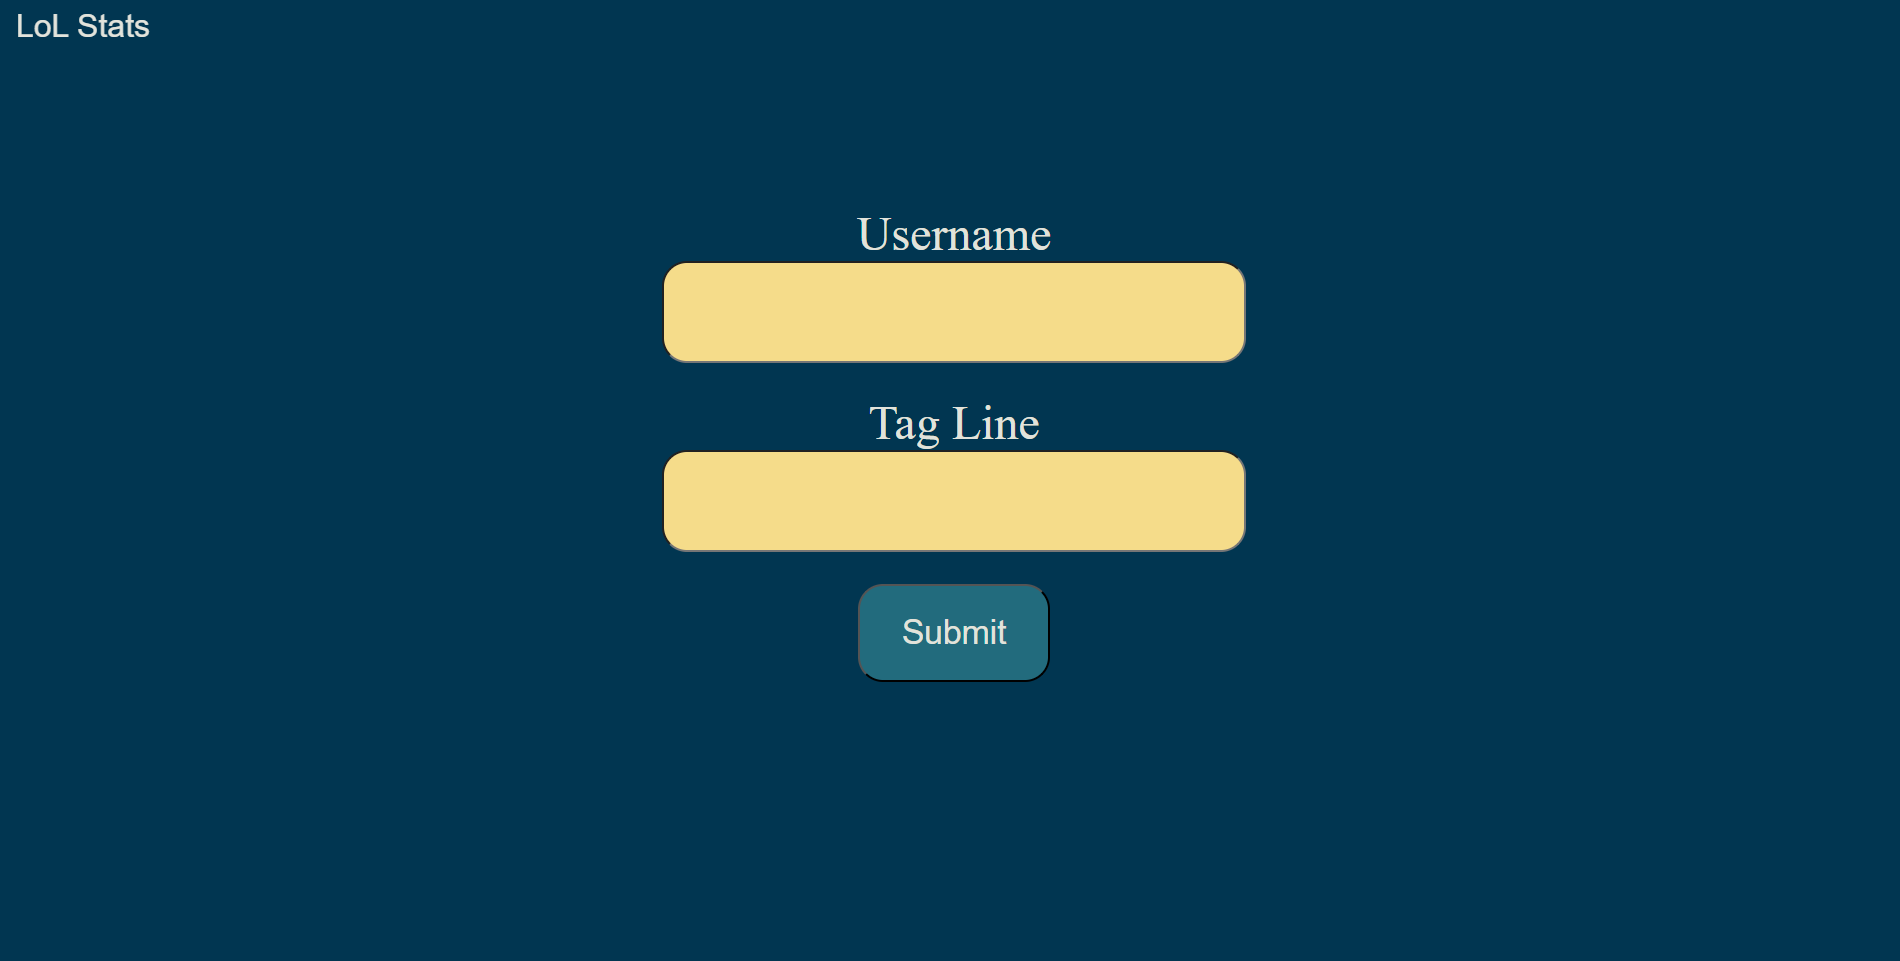
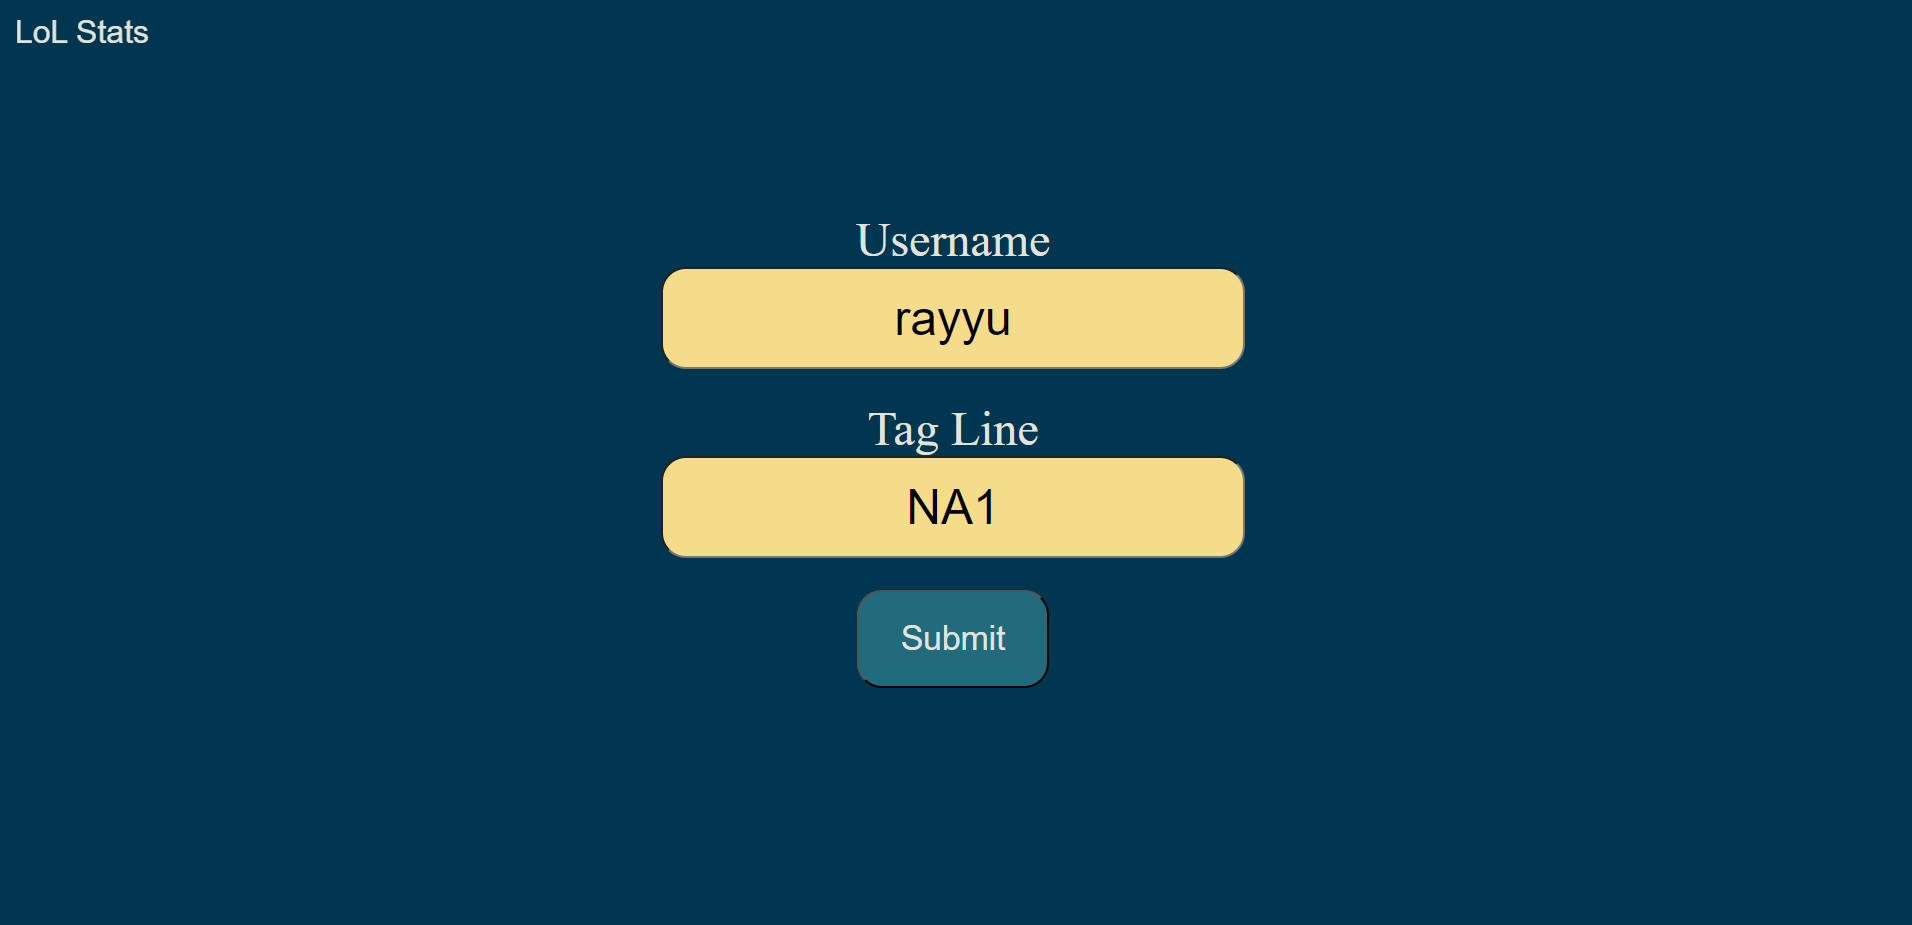
Updated README

Changed region(s): [[0.3416, 0.2119, 0.6832, 0.7568], [0.0, 0.0, 0.0932, 0.0605], [0.6521, 0.3027, 0.6832, 0.3632]]

diff --git a/README.md b/README.md
@@ -1,15 +1,28 @@
 # League of Legends Stat Tracker
-Electron Based Application using HTML/CSS/JS to get player data from the video game League of Legends using the Riot Games Devloper API.<br><br>
+Electron Based Application using HTML/CSS/JS to get player data from the video game League of Legends using the Riot Games Developer API.<br><br>
+
+# Project Motivation
 For several years, a significant amount of my free time has been consumed by League of Legends. I particularly enjoyed playing the competitive "Ranked" game mode where you try to climb to higher ranks by winning games. This mode requires more attention and focus than just loading up the casual mode. I have made this web app to hopefully obtain useful insight to help my gameplay.
-***
-Example Result: <br>
-<img src="./assets/screenshots/lolStatsMatchPage.png" alt = "screenshotMatchPage" width = "600">
-***
+
+# Quick Overview
+<u>Profile Search Screen:</u><br>
+Enter username as displayed in game and tagline which is also shown in the game/client without the # that is follows<br>
+<img src="./assets/screenshots/lolStatsSearchPage.png" alt = "Screenshot of the search page" width = "600"><br><br>
+
+<u>Example Results Page:</u><br>
+User's name and icon will be displayed with the 5 most recent matches<br>
+<img src="./assets/screenshots/lolStatsMatchPage.png" alt = "Screenshot of the results match page" width = "600">
+
 # How to Run
 - run by typing "npm start" in the terminal
-- there is no check for an up to date API Key
+- API Key:
+  - found in the file /lol-stats/api-key.js
+  - there is no check for an up to date API Key
   - must get your own API Key from https://developer.riotgames.com/
   - NOTE: this key expires daily 
+  - This file is ignored by the repository so the key is not uploaded, must set up yourself:
+  - <img src="./assets/screenshots/apiKeyFile.png" alt = "Example of API Key file setup" width = "600">
+  
 ***
 # Features Notes
 - see 5 recent matches 
